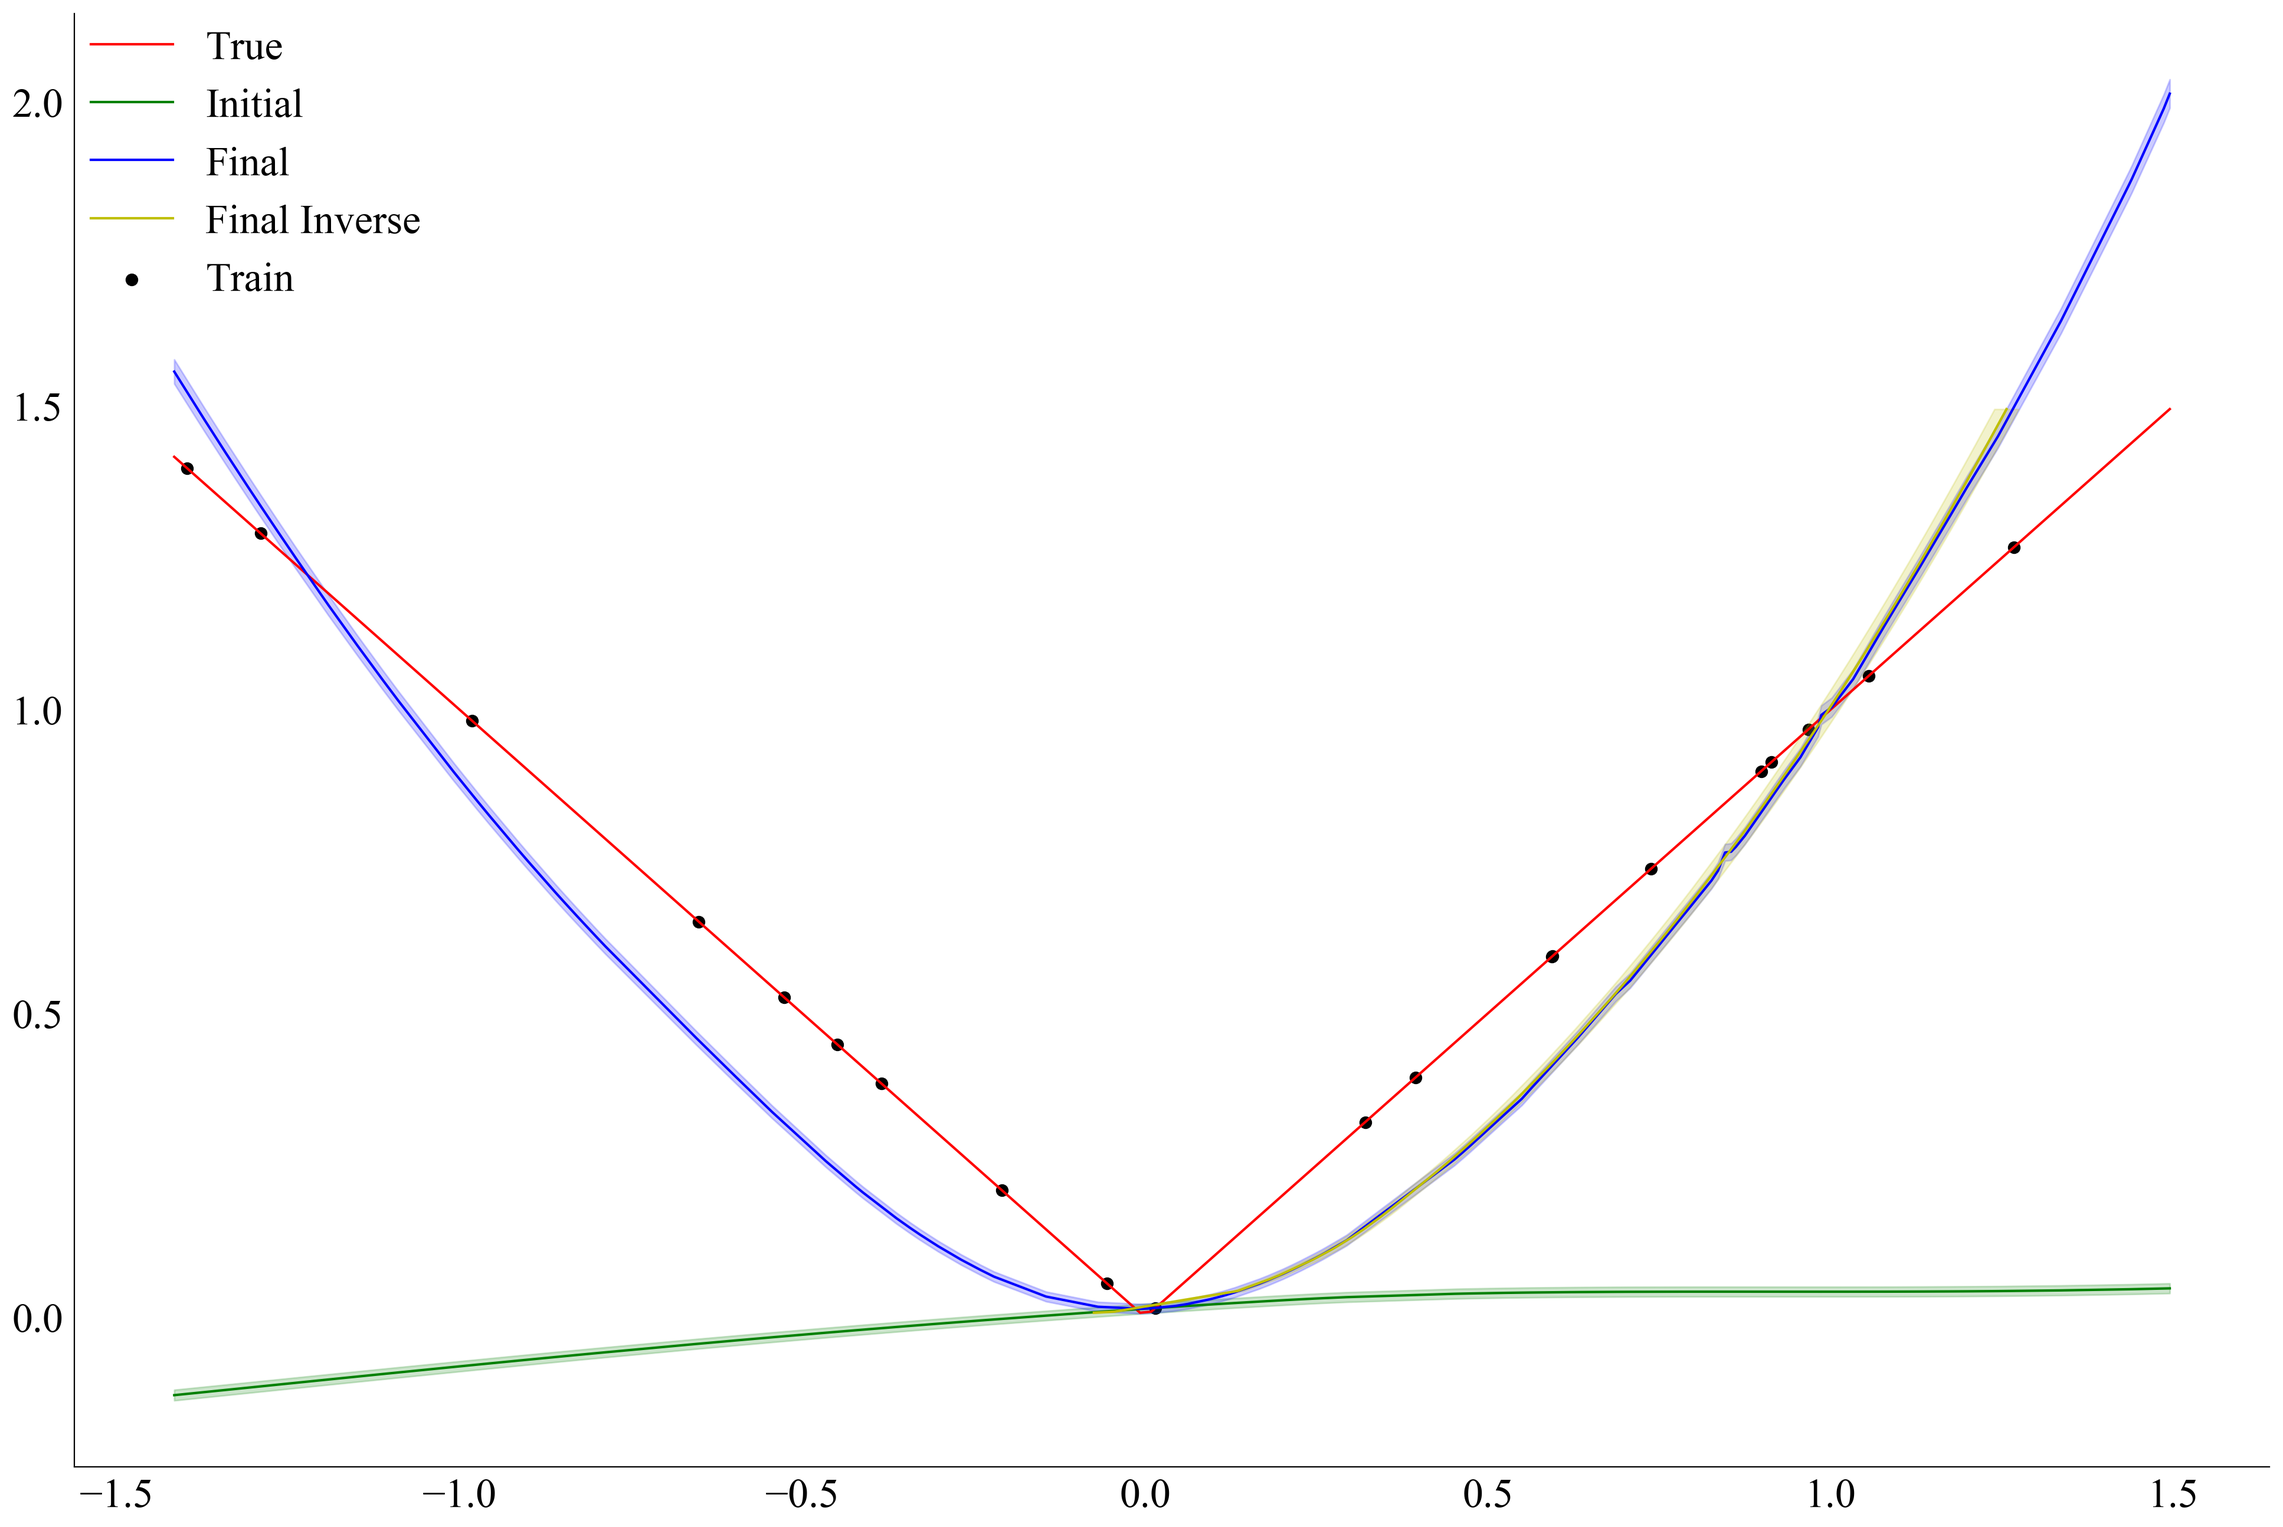
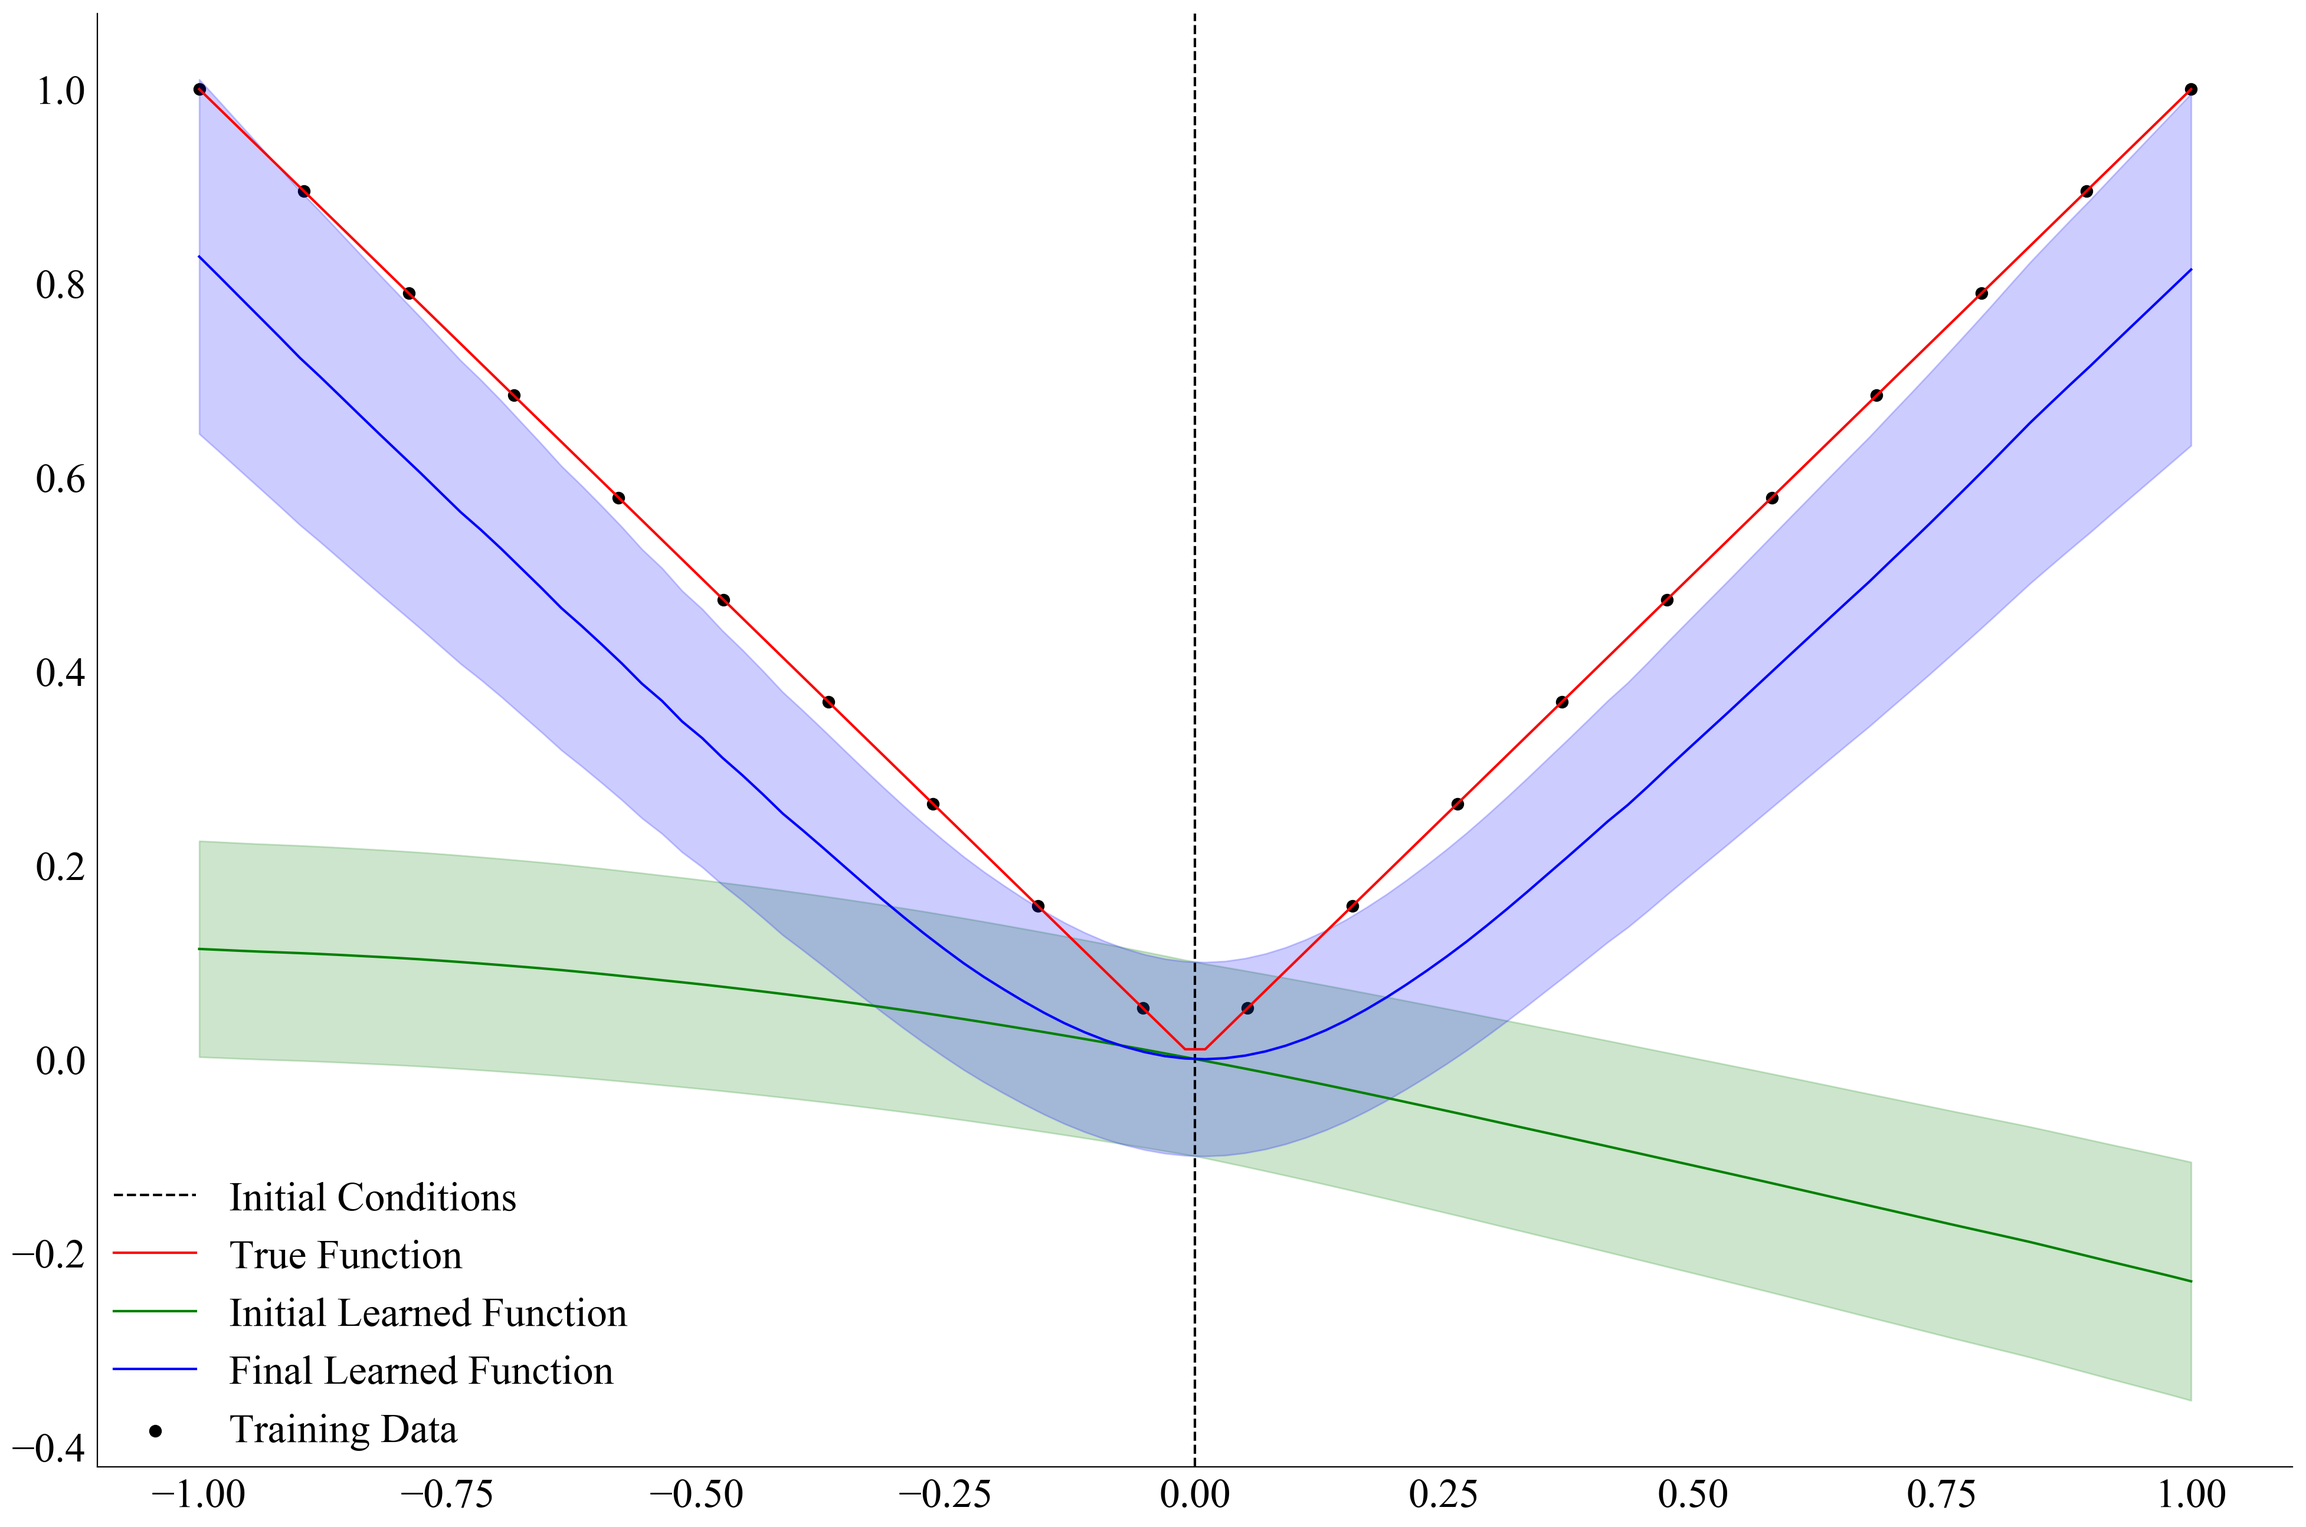
Adding code to compute inverses.

diff --git a/code/train.py b/code/train.py
@@ -7,22 +7,21 @@ import numpy as np
 import matplotlib.pyplot as plt
 import matplotlib as mpl
 
-from network import Dynamics, OneParam
+from network import Dynamics
 from time_dynamics import TimeDynamics, InverseTimeDynamics
 
 
 class derivative_net(object):
-    def __init__(self, x_dim, y_dim, initial_c, true_fcn, train_dataset, test_dataset, num_train, num_test, batch_size,
-                 num_epochs, rtol, atol, save_name, network_choice):
+    def __init__(self, initial_c, true_fcn, train_dataset, test_dataset, num_train, num_test, batch_size,
+                 num_epochs, rtol, atol, save_name, network_choice, optimizer, do_inverse):
         # TODO: This should be replaced with parser.args
-        self.x_dim = x_dim
-        self.y_dim = y_dim
         self.true_fcn = true_fcn
 
         self.train_dataset = train_dataset
         self.num_train = num_train
         self.test_dataset = test_dataset
         self.num_test = num_test
+        self.do_inverse = do_inverse
 
         self.x_i = initial_c[0]
         self.y_i = initial_c[1]
@@ -38,13 +37,13 @@ class derivative_net(object):
 
         self.rtol = rtol
         self.atol = atol
-        self.lr = 0.0001
+        self.lr = 0.001
         self.momentum = 0.0  # 0.9
         self.gpu = False
         self.results_dir = 'results/'
 
-        self.network = Network(self.x_dim, self.y_dim)
-        self.optimizer = torch.optim.Adam(self.network.parameters())  # , lr=self.lr, momentum=self.momentum)
+        self.network = network_choice
+        self.optimizer = optimizer(self.network.parameters(), lr=self.lr)  # , lr=self.lr, momentum=self.momentum)
         if self.gpu:
             self.network = self.network.cuda()
 
@@ -72,9 +71,10 @@ class derivative_net(object):
                     self.rtol /= 2.0
                     print(f"Decaying atol, rtol to {self.atol}")
             train_loss = self.evaluate_dataset(self.train_dataset, epoch)
-            print(f"\nEpoch {epoch} train loss: {train_loss}")
+            print(f"Epoch {epoch} train loss: {train_loss}")
 
-        print(f"Final test loss: {self.evaluate_dataset(self.test_dataset, self.num_epochs, do_inverse=True)}")
+        test_loss = self.evaluate_dataset(self.test_dataset, self.num_epochs, do_inverse=self.do_inverse)
+        print(f"Final test loss: {test_loss}")
 
     def evaluate_dataset(self, dataset, epoch=0, do_inverse=False):
         filename = self.results_dir + self.save_name + "_graph_" + str(epoch) + ".csv"
@@ -91,7 +91,7 @@ class derivative_net(object):
 
         total_loss = total_loss / self.num_batches
         self.loss_csv_writer.writerow(["loss", str(total_loss)])
-        print("Average loss for Epoch ", epoch, "is", total_loss)
+        # print("Average loss for Epoch ", epoch, "is", total_loss)
         return total_loss
 
     def evaluate_batch(self, batch_data, csv_writer=None, do_inverse=False):
@@ -114,7 +114,6 @@ class derivative_net(object):
                 x_pred = odeint(InverseTimeDynamics(self.y_i, y, self.network),
                                 self.x_i, self.t, self.rtol, self.atol)[-1]
                 x_pred = x_pred[0].item()
-                print(f"y = {y}, x_pred = {x_pred}")
 
             csv_writer.writerow([str(x.item()), str(y.item()), str(y_pred.item()), str(x_pred)])
 
@@ -180,6 +179,7 @@ def init_ax():
     ax = fig.add_subplot(1, 1, 1)
     return fig, ax
 
+
 def setup_ax(ax):
     ax.legend(fancybox=True, borderaxespad=0.0, framealpha=0.0)
     ax.tick_params(axis='x', which='both', bottom=False, top=False)
@@ -189,8 +189,9 @@ def setup_ax(ax):
     ax.spines['top'].set_visible(False)
     return ax
 
-def plot_functions(test_name, num_epochs, rtol, atol):
-    fig, ax = setup_ax
+
+def plot_functions(test_name, num_epochs, rtol, atol, x_o):
+    fig, ax = init_ax()
 
     initial_x, initial_y, initial_y_pred, initial_x_pred = load_log('results/' + test_name + '_graph_-1.csv')
     final_x, final_y, final_y_pred, final_x_pred = load_log(
@@ -198,23 +199,47 @@ def plot_functions(test_name, num_epochs, rtol, atol):
 
     train_x, train_y, _, _ = load_log('results/' + test_name + '_graph_0.csv')
 
+    ax.axvline(x_o, linestyle='--', color='k', label='Initial Conditions')
+
     # Plot training data
-    ax.scatter(train_x, train_y, label='Train', c='k', s=mpl.rcParams['lines.markersize'] ** 2 * 1.25)
+    ax.scatter(train_x, train_y, label='Training Data', c='k', s=mpl.rcParams['lines.markersize'] ** 2 * 1.25)
 
     # Plot the true function
-    ax.plot(initial_x, initial_y, label='True', c='r')
+    ax.plot(initial_x, initial_y, label='True Function', c='r')
 
     # Plot the initial function
-    ax.plot(initial_x, initial_y_pred, label='Initial', c='g')
+    ax.plot(initial_x, initial_y_pred, label='Initial Learned Function', c='g')
     initial_y_error = np.abs(initial_y_pred) * rtol + atol
     ax.fill_between(initial_x, initial_y_pred + initial_y_error, initial_y_pred - initial_y_error,
                     color='g', alpha=0.2)
 
     # Plot the learned function
-    ax.plot(final_x, final_y_pred, label='Final', c='b')
+    ax.plot(final_x, final_y_pred, label='Final Learned Function', c='b')
     final_y_error = np.abs(final_y_pred) * rtol + atol
     ax.fill_between(final_x, final_y_pred + final_y_error, final_y_pred - final_y_error,
                     color='b', alpha=0.2)
+
+    ax = setup_ax(ax)
+    fig.savefig('results/' + test_name + '_plot_functions.png', bbox_inches='tight', dpi=200)
+    plt.close(fig)
+
+
+def plot_inverse_functions(test_name, num_epochs, rtol, atol, x_o):
+    fig, ax = init_ax()
+
+    initial_x, initial_y, initial_y_pred, initial_x_pred = load_log('results/' + test_name + '_graph_-1.csv')
+    final_x, final_y, final_y_pred, final_x_pred = load_log(
+        'results/' + test_name + '_graph_' + str(num_epochs) + '.csv')
+
+    train_x, train_y, _, _ = load_log('results/' + test_name + '_graph_0.csv')
+
+    ax.axhline(true_y_exp(x_o), linestyle='--', color='k', label='Initial Conditions')
+
+    # Plot training data
+    ax.scatter(train_y, train_x, label='Training Data', c='k', s=mpl.rcParams['lines.markersize'] ** 2 * 1.25)
+
+    # Plot the true function
+    ax.plot(initial_y, initial_x, label='True Function', c='r')
 
     # Plot the inverse
     zipped_inverse = zip(final_y, final_x_pred)
@@ -222,13 +247,13 @@ def plot_functions(test_name, num_epochs, rtol, atol):
     final_y = np.array([y for y, _ in sorted_zipped_inverse])
     final_x_pred = np.array([x_pred for _, x_pred in sorted_zipped_inverse])
 
-    ax.plot(final_x_pred, final_y, label='Final Inverse', c='y')
+    ax.plot(final_y, final_x_pred, label='Final Learned Inverse', c='y')
     final_x_error = np.abs(final_x_pred) * rtol + atol
-    ax.fill_betweenx(final_y, final_x_pred + final_x_error, final_x_pred - final_x_error,
+    ax.fill_between(final_y, final_x_pred + final_x_error, final_x_pred - final_x_error,
                      color='y', alpha=0.2)
 
     ax = setup_ax(ax)
-    fig.savefig('results/' + test_name + '_plot_functions.png', bbox_inches='tight', dpi=200)
+    fig.savefig('results/' + test_name + '_plot_inverse_functions.png', bbox_inches='tight', dpi=200)
     plt.close(fig)
 
 
@@ -240,23 +265,23 @@ def invertible_experiment_compute(num_epochs, rtol, atol):
     batch_size = num_train
     num_test = 100
 
-    scale = 3.0
-    shift = scale / 2.0
-
     # Create training data
-    x_train = torch.rand(num_train, 1) * scale - shift
+    x_train = torch.linspace(-1, 1, num_train).reshape(-1, 1)
     y_train = true_y_exp(torch.transpose(x_train, 0, 1))
     train_dataset = create_dataset(x_train, y_train, batch_size)
-    initial_c = (x_train[0], y_train[0])
+    x_o = torch.tensor([0.0])
+    initial_c = (x_o, true_y_exp(x_o))
 
     # Create testing data
-    x_test = torch.rand(num_test, 1) * scale - shift
+    x_test = torch.linspace(-1.5, 1.5, num_test).reshape(-1, 1)
     y_test = true_y_exp(torch.transpose(x_test, 0, 1))
     test_dataset = create_dataset(x_test, y_test, batch_size)
 
     # Create the network and train
-    deriv_net = derivative_net(x_dim, y_dim, initial_c, true_y_exp, train_dataset, test_dataset, num_train, num_test,
-                               batch_size, num_epochs, rtol, atol, save_name, Dynamics)
+    network_choice = Dynamics(x_dim, y_dim)
+    deriv_net = derivative_net(initial_c, true_y_exp, train_dataset, test_dataset, num_train, num_test,
+                               batch_size, num_epochs, rtol, atol, save_name, network_choice,
+                               optimizer=torch.optim.Adam, do_inverse=True)
     deriv_net.train()
     return deriv_net.rtol, deriv_net.atol
 
@@ -269,40 +294,47 @@ def lipschitz_experiment_compute(num_epochs, rtol, atol):
     batch_size = num_train
     num_test = 100
 
-    scale = 3.0
-    shift = scale / 2.0
-
     # Create training data.
-    x_train = torch.rand(num_train, 1) * scale - shift
+    x_train = torch.linspace(-1, 1, num_train).reshape(-1, 1)
     y_train = true_y_abs(torch.transpose(x_train, 0, 1))
     train_dataset = create_dataset(x_train, y_train, batch_size)
-    initial_c = (x_train[0], y_train[0])
+    x_o = torch.tensor([0.0])
+    initial_c = (x_o, true_y_abs(x_o))
 
     # Create testing data.
-    x_test = torch.rand(num_test, 1) * scale - shift
+    x_test = torch.linspace(-1.5, 1.5, num_test).reshape(-1, 1)
     y_test = true_y_abs(torch.transpose(x_test, 0, 1))
     test_dataset = create_dataset(x_test, y_test, batch_size)
 
     # Train the network.
-    deriv_net = derivative_net(x_dim, y_dim, initial_c, true_y_abs, train_dataset, test_dataset, num_train, num_test,
-                               batch_size, num_epochs, rtol, atol, save_name, OneParam)
+    network_choice = Dynamics(x_dim, y_dim, torch.tanh)
+    deriv_net = derivative_net(initial_c, true_y_abs, train_dataset, test_dataset, num_train, num_test,
+                               batch_size, num_epochs, rtol, atol, save_name, network_choice,
+                               optimizer=torch.optim.Adam, do_inverse=False)
     deriv_net.train()
     return deriv_net.rtol, deriv_net.atol
 
 
 def main(init_rtol, init_atol):
-    # TODO: Should change to argparse
-    num_epochs_lipschitz = 10
-    rtol_final_lipschitz, atol_final_lipschitz = lipschitz_experiment_compute(num_epochs_lipschitz,
-                                                                              init_rtol, init_atol)
-    plot_functions('lipschitz', num_epochs_lipschitz, rtol_final_lipschitz, atol_final_lipschitz)
+    rtol_final_lipschitz = rtol_final_invertible = init_rtol
+    atol_final_lipschitz = atol_final_invertible = init_atol
+    x_o = 0
 
+    # TODO: Should change to argparse
+    print("Beginning Lipschitz experiments...")
+    num_epochs_lipschitz = 100
+    #rtol_final_lipschitz, atol_final_lipschitz = lipschitz_experiment_compute(num_epochs_lipschitz, init_rtol, init_atol)
+    plot_functions('lipschitz', num_epochs_lipschitz, rtol_final_lipschitz, atol_final_lipschitz, x_o)
+
+    print("Beginning Invertibility experiments...")
     num_epochs_invertible = 100
-    rtol_final_invertible, atol_final_invertible = invertible_experiment_compute(num_epochs_invertible,
-                                                                                 init_rtol, init_atol)
-    plot_functions('invertible', num_epochs_invertible, rtol_final_invertible, atol_final_invertible)
+    #rtol_final_invertible, atol_final_invertible = invertible_experiment_compute(num_epochs_invertible, init_rtol, init_atol)
+    plot_functions('invertible', num_epochs_invertible, rtol_final_invertible, atol_final_invertible, x_o)
+    plot_inverse_functions('invertible', num_epochs_invertible, rtol_final_invertible, atol_final_invertible, x_o)
 
 
 if __name__ == "__main__":
-    init_rtol, init_atol = 1.0, 1.0
+    print("Beginning experiments...")
+    init_rtol, init_atol = 0.1, 0.1
     main(init_rtol, init_atol)
+    print("Finished!")

diff --git a/code/network.py b/code/network.py
@@ -11,16 +11,16 @@ class OneParam(nn.Module):
         # Use Learning rate of 0.5 and no momentum (for SGD)
 
         super(OneParam, self).__init__()
-        self.W = nn.Parameter(torch.randn(xdim, requires_grad=True)* 0.001)
+        self.W = nn.Parameter(torch.zeros(xdim, requires_grad=True))
         # self.b = nn.Parameter(torch.zeros(xdim, requires_grad=True))
 
     def forward(self, x):
-        out = torch.sigmoid(self.W * x) * 2 - 1
+        out = torch.tanh(self.W * x)
         return out
 
 
 class Dynamics(nn.Module):
-    def __init__(self, xdim, ydim):
+    def __init__(self, xdim, ydim, final_activation=None):
         """This module computes the dynamics at a point x. That is it return the Jacobian matrix
         where each element is dy_i/dx_j
         Output is a matrix of size ydim x xdim
@@ -30,6 +30,7 @@ class Dynamics(nn.Module):
         super(Dynamics, self).__init__()
         self.xdim = xdim
         self.ydim = ydim
+        self.final_activation = final_activation
 
         # Layers
         self.d = 50
@@ -46,6 +47,8 @@ class Dynamics(nn.Module):
     def forward(self, x):
         out = self.linear_layers(x)
         out = out.view(-1, self.ydim, self.xdim)
+        if self.final_activation is not None:
+            out = self.final_activation(out)
         return out.reshape(self.ydim, )
 
 
